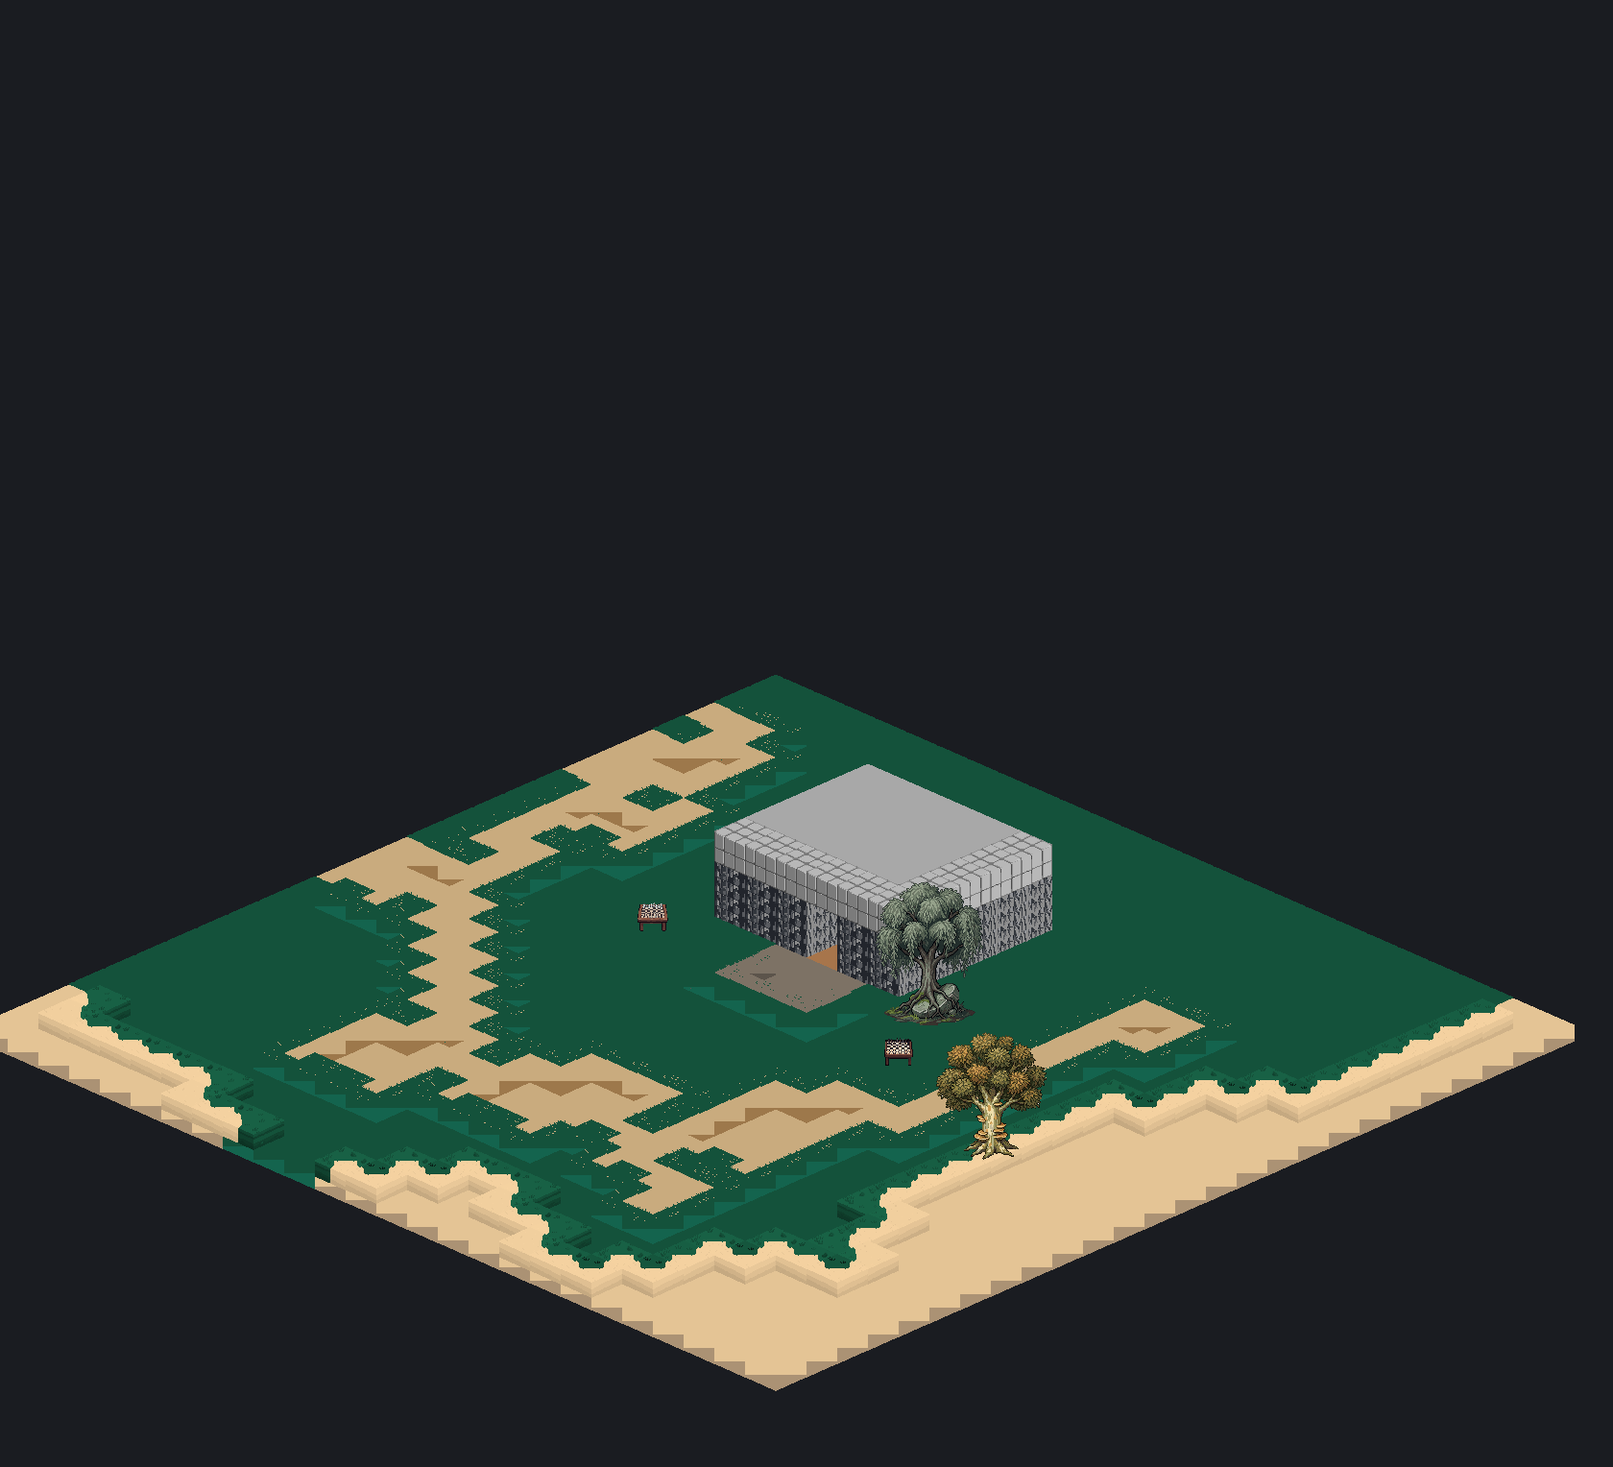
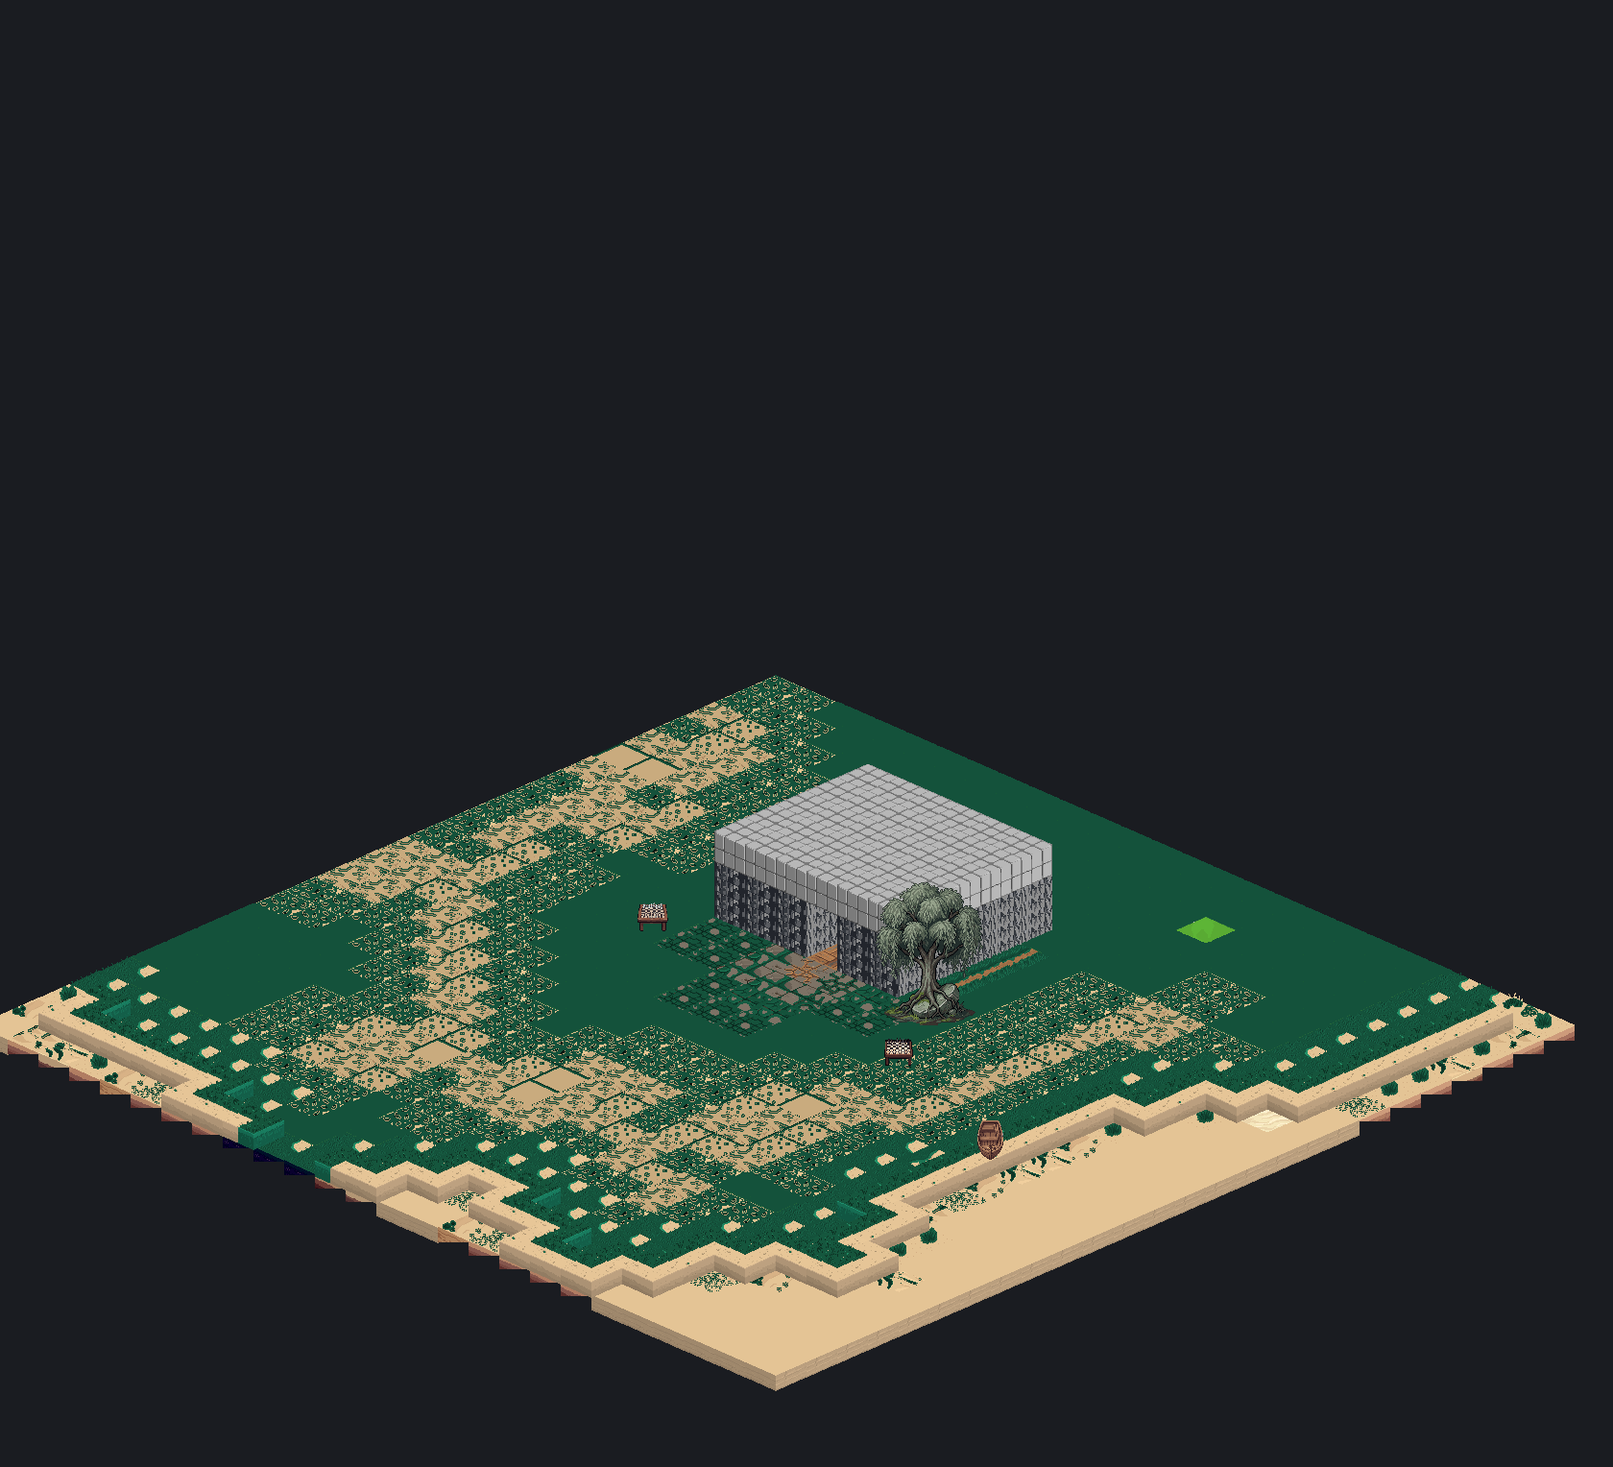
maps2: the_game passes its own adversarial audit — laws enforced, fades real
Two workflows ran against the first cut (a system-mapping pass with a
completeness critic, and four law auditors + five visual judges), and
they earned their tokens. What changed, each a caught violation or a
system I had missed:

  * THE WALL LAW, properly: the painted-wall silhouette fallback is
    DELETED. Every ground has an approved same-over-same review cell
    (measured: all 225 cells populated), so the lawful field tile IS that
    tile — flattened clean top, real x-over-x wall. Liquids draw a pure
    diamond and never a wall. over_tile with no cell now asserts instead
    of inventing.
  * live/tuning/tile_walls.json decoded correctly: it is the wiki's
    TOP_ONLY flag per candidate (vertical.py doctrine: a top that repeats
    poorly vertically), not a side override. Storey fills skip top_only
    candidates; my invented side-override channel is gone.
  * TRANSITION POLARITY IS MEASURED, never read from meta — 6 of 15
    dark_mud sets carry the opposite material at index 0 than meta claims
    (transition_post.py). Tile 15's mean colour vs the two palettes
    decides the Wang bit.
  * THE REAL FADE SYSTEM: tiles/fades (tiles3/fade-tiles@1, top-only mix
    tiles placed BY EDGE_GROUND — the maintainer's 2026-08-28 ruling) now
    eases every ground change in a 2-cell band, pct rising toward the
    edge, cropped to the top (fade walls are declared meaningless),
    palette-gated against mis-corrected sets. My borrowed-mask fade
[…]

diff --git a/maps2/pipeline/render3.py b/maps2/pipeline/render3.py
@@ -47,7 +47,9 @@ import render as TILE_RENDER            # tiles/pipeline/render.py — wall_heig
 
 DX, DY, WALL, TILE = 32, 14, 17, 64
 TOP_Y = 10                              # review tiles: diamond apex row in the 64-box
-FADE_MASK_PAIR = ("grass", "water")     # borrowed geometry for pairs with no set
+FADES = json.load(open(os.path.join(REPO, "tiles", "fades", "index.json"))) \
+    if os.path.isfile(os.path.join(REPO, "tiles", "fades", "index.json")) else {"pairs": {}}
+FADE_BAND = 2                           # cells of fade band each side of a hard edge
 DETAIL_FREQ = 1 / 48                    # a detail roughly once per 48 field cells
 INDOOR_GROUNDS = {"parquet_floor", "brown_paving_stone", "grey_paving_stone"}
 # a wall's side is the ground at its FOOT — but an indoor floor is never a
@@ -65,15 +67,24 @@ def _hex(h):
     return tuple(int(h[i:i + 2], 16) for i in (0, 2, 4))
 
 
-def approved_candidate(top, side):
-    """The wiki's own rule: the approved candidate, else rank 0."""
+def _candidates(top, side):
     cell = MAN["cells"].get(f"{top}__over__{side}")
     if not cell:
-        return None
-    for c in cell["candidates"]:
-        if FB.get(c["key"], {}).get("status") == "approved":
-            return c
-    return cell["candidates"][0] if cell["candidates"] else None
+        return []
+    out = [c for c in cell["candidates"] if FB.get(c["key"], {}).get("status") == "approved"]
+    return out + [c for c in cell["candidates"] if c not in out]
+
+
+def approved_candidate(top, side, storey=False):
+    """The wiki's own rule: the approved candidate, else rank 0. For a STOREY
+    fill (the repeated wall below the cap), candidates the maintainer flagged
+    `top_only` in live/tuning/tile_walls.json are skipped — vertical.py's
+    doctrine: a top that repeats poorly vertically needs same-over-same backup."""
+    cands = _candidates(top, side)
+    if storey:
+        rest = [c for c in cands if not WALL_OV.get(c["key"], {}).get("top_only")]
+        cands = rest or cands
+    return cands[0] if cands else None
 
 
 _tile_cache = {}
@@ -97,12 +108,20 @@ def over_tile(top, side):
     if key in _tile_cache:
         return _tile_cache[key]
     c = approved_candidate(top, side) or approved_candidate(top, top)
-    if c:
-        im = Image.open(os.path.join(REPO, c["file"])).convert("RGBA")
-    else:
-        im = flat_tile(top)
+    assert c, f"no review cell for {top} over {side} (nor {top} over {top}) — " \
+              f"the x-over-y matrix is the ONLY wall source and it has no tile"
+    im = Image.open(os.path.join(REPO, c["file"])).convert("RGBA")
     _tile_cache[key] = im
     return im
+
+
+def storey_tile(ground):
+    """The repeated storey below a cap: same-over-same, honouring top_only."""
+    key = ("storey", ground)
+    if key not in _tile_cache:
+        c = approved_candidate(ground, ground, storey=True)
+        _tile_cache[key] = Image.open(os.path.join(REPO, c["file"])).convert("RGBA")
+    return _tile_cache[key]
 
 
 def wall_band(top, side):
@@ -119,20 +138,47 @@ def wall_band(top, side):
 
 
 def flat_tile(ground):
-    """A field tile: the promoted base tile when one exists, else the ground's
-    clean colour painted into the same-over-same silhouette (so the wall band
-    exists for rims); liquids get a plain diamond."""
+    """A FIELD tile, by the law's ladder:
+
+      liquids          -> a pure flat-colour diamond, NO wall — liquids never
+                          show one;
+      surface: base    -> the ground's own published base tile
+                          (ground_types.json base_tiles — paving, parquet);
+      live promotion   -> the maintainer's promoted base tile
+                          (live/tuning/base_tiles.json; review candidate or
+                          textured base_candidates entry);
+      otherwise        -> the APPROVED same-over-same review tile: its top is
+                          already flattened to the clean palette colour (the
+                          flat field the law demands) and its wall is the real
+                          x-over-x art — the only lawful wall source — for
+                          wherever a rim exposes it.
+    """
     key = ("flat", ground)
     if key in _tile_cache:
         return _tile_cache[key]
     g = GT.get(ground, {})
+    if ground in ("water", "deep_water", "lava", "slime"):
+        top = _hex(g.get("palette", {}).get("top", g.get("base_color", "#808080")))
+        im = Image.new("RGBA", (TILE, TILE), (0, 0, 0, 0))
+        px = im.load()
+        for y in range(2 * DY):
+            half = int(DX * (1 - abs(y - DY) / DY))
+            for x in range(DX - half, DX + half):
+                px[x, TOP_Y + y] = (*top, 255)
+        _tile_cache[key] = im
+        return im
+    canon = g.get("base_tiles") or []
+    if canon:
+        im = Image.open(os.path.join(REPO, canon[0])).convert("RGBA")
+        _tile_cache[key] = im
+        return im
     promos = [k for k, v in BASE.items() if v.get("type") == ground]
-    if promos:                            # maintainer-promoted base tile: the
-        path = None                       # key may name a review candidate OR a
-        for cell in MAN["cells"].values():        # textured base_candidates entry
+    if promos:
+        path = None
+        for cell in MAN["cells"].values():
             for c in cell["candidates"]:
                 if c["key"] == promos[0]:
-                    path = c["file"]
+                    path = c.get("before") or c["file"]
         if path is None:
             idxp = os.path.join(REPO, "tiles", "base_candidates", ground, "index.json")
             if os.path.isfile(idxp):
@@ -143,28 +189,9 @@ def flat_tile(ground):
             im = Image.open(os.path.join(REPO, path)).convert("RGBA")
             _tile_cache[key] = im
             return im
-    top = _hex(g.get("palette", {}).get("top", g.get("base_color", "#808080")))
-    wall = _hex(g.get("palette", {}).get("wall", g.get("base_color", "#606060")))
-    sil = approved_candidate(ground, ground)
-    if sil:                               # paint the palette through the real silhouette
-        base = np.array(Image.open(os.path.join(REPO, sil["file"])).convert("RGBA"))
-        a = base[..., 3] > 0
-        ys = np.arange(base.shape[0])[:, None]
-        topmask = a & (ys < TOP_Y + 2 * DY)
-        wallmask = a & ~topmask
-        out = np.zeros_like(base)
-        out[..., 3] = np.where(a, 255, 0)
-        for m, col in ((topmask, top), (wallmask, wall)):
-            for i in range(3):
-                out[..., i] = np.where(m, col[i], out[..., i])
-        im = Image.fromarray(out)
-    else:                                 # pure diamond (liquids)
-        im = Image.new("RGBA", (TILE, TILE), (0, 0, 0, 0))
-        px = im.load()
-        for y in range(2 * DY):
-            half = int(DX * (1 - abs(y - DY) / DY))
-            for x in range(DX - half, DX + half):
-                px[x, TOP_Y + y] = (*top, 255)
+    c = approved_candidate(ground, ground)
+    assert c, f"no same-over-same review cell for {ground}"
+    im = Image.open(os.path.join(REPO, c["file"])).convert("RGBA")
     _tile_cache[key] = im
     return im
 
@@ -193,59 +220,92 @@ def pair_set(a, b):
     if d:
         sets = sorted(s for s in os.listdir(d) if os.path.isdir(os.path.join(d, s, "post")))
         if sets:
-            pick = sets[len(sets) // 2]   # mid amplitude; refined by eye later
-            meta = json.load(open(os.path.join(d, pick, "meta.json")))
-            tiles = [Image.open(os.path.join(d, pick, "post", f"tile_{i:02d}.webp")).convert("RGBA")
+            pick = sets[0]                # amplitude-then-seed — the wiki's order
+            base = os.path.join(d, pick)
+            tiles = [Image.open(os.path.join(base, "post", f"tile_{i:02d}.webp")).convert("RGBA")
                      for i in range(16)]
-            out = (tiles, meta["upper"])
+            # POLARITY IS MEASURED, never read from meta: 6 of 15 dark_mud
+            # sets carry the opposite material at index 0 than meta claims
+            # (transition_post.py). Classify tile 15's mean colour against the
+            # two grounds' palettes — bit=1 means tile 15's material.
+            na, nb = os.path.basename(d).split("__to__")
+            import numpy as _np
+            m15 = _np.array(tiles[15].convert("RGB"), float)[:2 * DY + 8].mean((0, 1))
+            ca = _np.array(_hex(GT[na]["palette"]["top"]), float)
+            cb = _np.array(_hex(GT[nb]["palette"]["top"]), float)
+            upper = na if ((m15 - ca) ** 2).sum() <= ((m15 - cb) ** 2).sum() else nb
+            out = (tiles, upper)
     _set_cache[key] = out
     return out
 
 
-def fade_set(a, b):
-    """FADE fallback for pairs with no art: the two grounds' palette colours
-    painted through a borrowed mask set's geometry (classify against the
-    borrowed set's own pure corners, repaint flat). Logged for review."""
-    key = frozenset(("fade", a, b))
+def detail_pool(ground):
+    """Top-approved detail tiles for a ground (live/feedback '#top' approvals,
+    raw pass — the flattening is why he had never seen them). Empty today."""
+    key = ("details", ground)
     if key in _set_cache:
         return _set_cache[key]
-    root = os.path.join(REPO, "tiles", "transitions",
-                        f"{FADE_MASK_PAIR[0]}__to__{FADE_MASK_PAIR[1]}")
-    sets = sorted(s for s in os.listdir(root) if os.path.isdir(os.path.join(root, s)))
-    pick = sets[0]
-    raw = [Image.open(os.path.join(root, pick, f"tile_{i:02d}.webp")).convert("RGBA")
-           for i in range(16)]
-    meta = json.load(open(os.path.join(root, pick, "meta.json")))
-    ca = _hex(GT[a].get("palette", {}).get("top", GT[a]["base_color"]))
-    cb = _hex(GT[b].get("palette", {}).get("top", GT[b]["base_color"]))
-    wa = _hex(GT[a].get("palette", {}).get("wall", GT[a]["base_color"]))
-    wb = _hex(GT[b].get("palette", {}).get("wall", GT[b]["base_color"]))
-    # classify each pixel against the borrowed set's own endpoints, then paint
-    # flat — no texture is invented, the geometry alone is borrowed
-    ref0 = np.array(raw[0].convert("RGB"), float)
-    ref15 = np.array(raw[15].convert("RGB"), float)
-    tiles = []
-    upper_is_a = True                     # bit=1 will mean ground `a`
-    for i, t in enumerate(raw):
-        arr = np.array(t.convert("RGB"), float)
-        alpha = np.array(t)[..., 3]
-        d0 = ((arr - ref0) ** 2).sum(-1)
-        d15 = ((arr - ref15) ** 2).sum(-1)
-        isb = d15 < d0                    # True = index-15 material = meta upper
-        out = np.zeros((*arr.shape[:2], 4), np.uint8)
-        out[..., 3] = np.where(alpha > 0, 255, 0)
-        ys = np.arange(arr.shape[0])[:, None]
-        topband = ys < 2 * DY + 2
-        for m, ctop, cwall in ((isb, ca, wa), (~isb, cb, cwall_b := cb if True else cb)):
-            pass
-        # paint: upper material (bit=1) = a; lower = b
-        for m, ct, cw in ((isb, ca, wa), (~isb, cb, wb)):
-            mm = m & (alpha > 0)
-            for ch in range(3):
-                out[..., ch] = np.where(mm & topband, ct[ch], out[..., ch])
-                out[..., ch] = np.where(mm & ~topband, cw[ch], out[..., ch])
-        tiles.append(Image.fromarray(out))
-    out = (tiles, a)
+    out = []
+    for ck, cell in MAN["cells"].items():
+        if cell["top"] != ground:
+            continue
+        for c in cell["candidates"]:
+            if FB.get(c["key"] + "#top", {}).get("status") == "approved":
+                out.append(Image.open(os.path.join(REPO, c.get("before") or c["file"])).convert("RGBA"))
+    _set_cache[key] = out
+    return out
+
+
+def fade_pool(field_ground, other):
+    """The REAL fade product (tiles/fades, tiles3/fade-tiles@1): top-only mix
+    tiles placed BY EDGE_GROUND — the ground the tile's rim belongs to — never
+    by area majority (maintainer ruling 2026-08-28: big rocks ON an ice sheet).
+    Returns [(file, other_pct)] usable inside a `field_ground` field next to
+    `other`, sorted by how much of the other ground shows."""
+    key = ("fadepool", field_ground, other)
+    if key in _set_cache:
+        return _set_cache[key]
+    out = []
+    for pk in (f"{field_ground}__to__{other}", f"{other}__to__{field_ground}"):
+        for t in FADES.get("pairs", {}).get(pk, []):
+            if t.get("edge_ground") != field_ground:
+                continue
+            pct = t.get("pct", {}).get(other, 0)
+            # honest mixes only: a ~0% tile is the source set's own idea of a
+            # pure field (a lime square on our grass), a >60% one reads as the
+            # other ground with a rim — the maintainer's never-50/50 rule
+            if not (8 <= pct <= 55):
+                continue
+            # palette sanity: the tile's own mean must sit near the pct-blend
+            # of the two grounds' palette tops — one mis-corrected set ships a
+            # lime square onto our dark meadow otherwise
+            try:
+                imt = Image.open(os.path.join(REPO, t["file"])).convert("RGBA")
+            except FileNotFoundError:
+                continue
+            import numpy as _np
+            arr = _np.array(imt, float)
+            m = arr[..., 3] > 0
+            if not m.any():
+                continue
+            ca = _np.array(_hex(GT[field_ground]["palette"]["top"]), float)
+            cb = _np.array(_hex(GT[other]["palette"]["top"]), float)
+            # a fade tile's WALL is explicitly meaningless (index law) — crop
+            # to the top diamond so a flat field never grows a stray wall
+            arr = arr[:TOP_Y + 2 * DY + 2]
+            m = arr[..., 3] > 0
+            if not m.any():
+                continue
+            px3 = arr[..., :3][m]
+            # alien-palette guard, tuned to kill wrong-green sets but keep the
+            # soil sets' honest shading range
+            da = _np.abs(px3 - ca).max(1)
+            db = _np.abs(px3 - cb).max(1)
+            near_d = _np.minimum(da, db)
+            if _np.percentile(near_d, 80) > 78:
+                continue
+            out.append((t["file"], pct))
+    out.sort(key=lambda r: r[1])
     _set_cache[key] = out
     return out
 
@@ -310,7 +370,39 @@ def render(doc, x0=0, y0=0, x1=None, y1=None, scale=1.0, log=print):
             zl = L(x, y)
             bx = ox + (x - x0 - (y - y0)) * DX - DX
             if zl == 0 or gr in liq:
-                img.alpha_composite(flat_tile(gr), (bx, col_y(x, y, L(x, y) if gr not in liq else 0) - TOP_Y))
+                t = flat_tile(gr)
+                if gr not in liq:
+                    # FADE BAND: within FADE_BAND cells of a different SOLID
+                    # ground at the same level, ease the change with the fades
+                    # product (top-only, placed by edge_ground). Deterministic.
+                    near = None
+                    for r in range(1, FADE_BAND + 1):
+                        for dx2, dy2 in ((r, 0), (-r, 0), (0, r), (0, -r)):
+                            og = g(x + dx2, y + dy2)
+                            if og and og != gr and og not in liq \
+                                    and L(x + dx2, y + dy2) == zl:
+                                near = (og, r)
+                                break
+                        if near:
+                            break
+                    if near:
+                        pool = fade_pool(gr, near[0])
+                        if pool:
+                            rr = _rng((x * 73856093) ^ (y * 19349663))
+                            # nearer the edge -> stronger mix; jittered pick
+                            hi = len(pool) - 1
+                            band_pos = (FADE_BAND + 1 - near[1]) / (FADE_BAND + 1)
+                            idx = min(hi, int((band_pos * 0.55 + rr() * 0.3 - 0.15) * hi))
+                            f = Image.open(os.path.join(REPO, pool[max(0, idx)][0])).convert("RGBA")
+                            f = f.crop((0, 0, f.width, min(f.height, TOP_Y + 2 * DY + 2)))
+                            t = f
+                    # DETAILS: a top-approved tile once in a while (pool is
+                    # empty until the maintainer approves — then it just works)
+                    if t is flat_tile(gr):
+                        dp = detail_pool(gr)
+                        if dp and _rng((x * 83492791) ^ (y * 2654435761))() < DETAIL_FREQ:
+                            t = dp[int(_rng(x * 31 + y)() * len(dp)) % len(dp)]
+                img.alpha_composite(t, (bx, col_y(x, y, zl) - TOP_Y))
                 continue
             front_low = min(L(x + 1, y), L(x, y + 1))
             fx, fy = (x + 1, y) if L(x + 1, y) <= L(x, y + 1) else (x, y + 1)
@@ -318,9 +410,8 @@ def render(doc, x0=0, y0=0, x1=None, y1=None, scale=1.0, log=print):
             if side in INDOOR_GROUNDS or side in liq:
                 side = gr                    # stone over its own body; water is
                                              # never a wall material either
-            side = WALL_OV.get(f"{gr}__over__{side}", {}).get("side", side)
             cap = over_tile(gr, side) if front_low < zl else flat_tile(gr)
-            mid = over_tile(gr, gr)
+            mid = storey_tile(gr)
             for f in range(max(0, front_low), zl + 1):
                 t = cap if f == zl else mid
                 img.alpha_composite(t, (bx, col_y(x, y, f) - TOP_Y))
@@ -340,8 +431,8 @@ def render(doc, x0=0, y0=0, x1=None, y1=None, scale=1.0, log=print):
             a, b = sorted(set(gs))
             ps = pair_set(a, b)
             if ps is None:
-                ps = fade_set(a, b)
-                fades[(a, b)] += 1
+                fades[(a, b)] += 1        # hard edge today; the log is the
+                continue                  # transition-set shopping list
             tiles, upper = ps
             idx = (8 * (gs[0] == upper) + 4 * (gs[1] == upper)
                    + 2 * (gs[2] == upper) + 1 * (gs[3] == upper))
@@ -374,7 +465,7 @@ def render(doc, x0=0, y0=0, x1=None, y1=None, scale=1.0, log=print):
             lo = dl if front_covered else max(0, dl - max(1, th))
             bx = ox + (x - x0 - (y - y0)) * DX - DX
             cap = flat_tile(dg) if front_covered else over_tile(dg, dg)
-            mid = over_tile(dg, dg)
+            mid = storey_tile(dg)
             for f in range(lo, dl + 1):
                 t = cap if f == dl else mid
                 img.alpha_composite(t, (bx, col_y(x, y, f) - TOP_Y))
